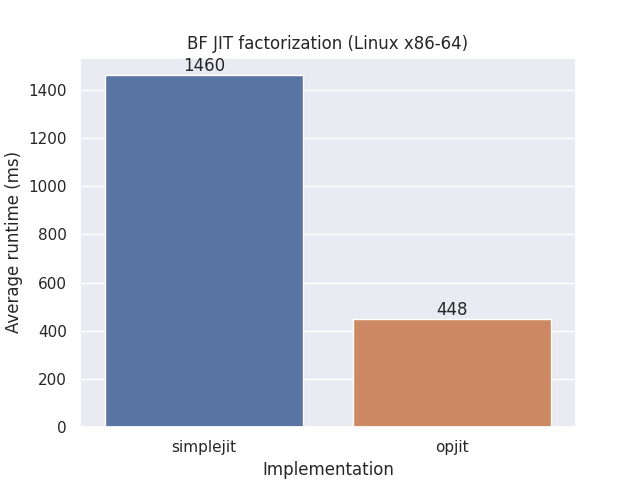
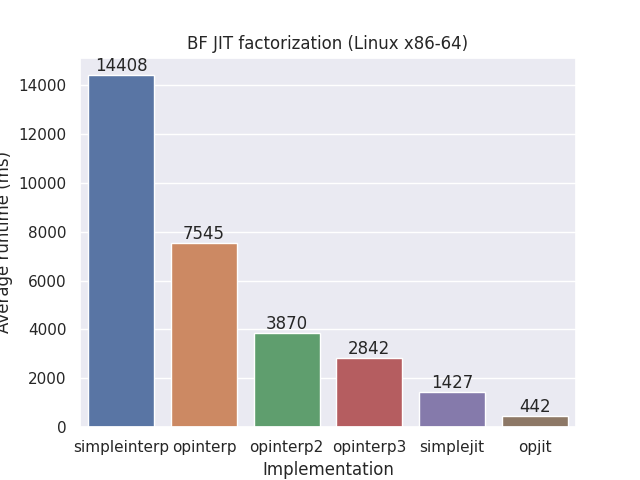
deploy: 33dc240f0592e6000128208d0645b407cf089039

Changed region(s): [[0.0, 0.125, 0.9062, 0.9688], [0.0312, 0.75, 0.0938, 0.8125]]

diff --git a/settings.html b/settings.html
@@ -1,1 +1,1 @@
-<!DOCTYPE html><html lang="en"><head><meta charset="utf-8"><meta name="viewport" content="width=device-width, initial-scale=1.0"><meta name="generator" content="rustdoc"><meta name="description" content="Settings of Rustdoc"><meta name="keywords" content="rust, rustlang, rust-lang"><title>Rustdoc settings</title><link rel="preload" as="font" type="font/woff2" crossorigin href="./SourceSerif4-Regular.ttf.woff2"><link rel="preload" as="font" type="font/woff2" crossorigin href="./FiraSans-Regular.woff2"><link rel="preload" as="font" type="font/woff2" crossorigin href="./FiraSans-Medium.woff2"><link rel="preload" as="font" type="font/woff2" crossorigin href="./SourceCodePro-Regular.ttf.woff2"><link rel="preload" as="font" type="font/woff2" crossorigin href="./SourceSerif4-Bold.ttf.woff2"><link rel="preload" as="font" type="font/woff2" crossorigin href="./SourceCodePro-Semibold.ttf.woff2"><link rel="stylesheet" href="./normalize.css"><link rel="stylesheet" href="./rustdoc.css" id="mainThemeStyle"><link rel="stylesheet" href="./ayu.css" disabled><link rel="stylesheet" href="./dark.css" disabled><link rel="stylesheet" href="./light.css" id="themeStyle"><script id="default-settings" ></script><script src="./storage.js"></script><script defer src="./main.js"></script><noscript><link rel="stylesheet" href="./noscript.css"></noscript><link rel="alternate icon" type="image/png" href="./favicon-16x16.png"><link rel="alternate icon" type="image/png" href="./favicon-32x32.png"><link rel="icon" type="image/svg+xml" href="./favicon.svg"></head><body class="rustdoc mod"><!--[if lte IE 11]><div class="warning">This old browser is unsupported and will most likely display funky things.</div><![endif]--><nav class="mobile-topbar"><button class="sidebar-menu-toggle">&#9776;</button><a class="sidebar-logo" href="./simpleinterp/index.html"><div class="logo-container"><img class="rust-logo" src="./rust-logo.svg" alt="logo"></div></a><h2 class="location"></h2></nav><nav class="sidebar"><a class="sidebar-logo" href="./simpleinterp/index.html"><div class="logo-container"><img class="rust-logo" src="./rust-logo.svg" alt="logo"></div></a><h2 class="location">Settings</h2><div class="sidebar-elems"></div></nav><main><div class="width-limiter"><div class="sub-container"><a class="sub-logo-container" href="./simpleinterp/index.html"><img class="rust-logo" src="./rust-logo.svg" alt="logo"></a><nav class="sub"><form class="search-form"><div class="search-container"><span></span><input class="search-input" name="search" autocomplete="off" spellcheck="false" placeholder="Click or press ‘S’ to search, ‘?’ for more options…" type="search"><div id="help-button" title="help" tabindex="-1"><button type="button">?</button></div><div id="settings-menu" tabindex="-1"><a href="./settings.html" title="settings"><img width="22" height="22" alt="Change settings" src="./wheel.svg"></a></div></div></form></nav></div><section id="main-content" class="content"><div class="main-heading"><h1 class="fqn"><span class="in-band">Rustdoc settings</span></h1><span class="out-of-band"><a id="back" href="javascript:void(0)" onclick="history.back();">Back</a></span></div><noscript><section>You need to enable Javascript be able to update your settings.</section></noscript><link rel="stylesheet" type="text/css" href="settings.css"><script defer src="settings.js"></script></section></div></main><div id="rustdoc-vars" data-root-path="./" data-current-crate="simpleinterp" data-themes="ayu,dark,light" data-resource-suffix="" data-rustdoc-version="1.65.0 (897e37553 2022-11-02)" ></div></body></html>
+<!DOCTYPE html><html lang="en"><head><meta charset="utf-8"><meta name="viewport" content="width=device-width, initial-scale=1.0"><meta name="generator" content="rustdoc"><meta name="description" content="Settings of Rustdoc"><meta name="keywords" content="rust, rustlang, rust-lang"><title>Rustdoc settings</title><link rel="preload" as="font" type="font/woff2" crossorigin href="./SourceSerif4-Regular.ttf.woff2"><link rel="preload" as="font" type="font/woff2" crossorigin href="./FiraSans-Regular.woff2"><link rel="preload" as="font" type="font/woff2" crossorigin href="./FiraSans-Medium.woff2"><link rel="preload" as="font" type="font/woff2" crossorigin href="./SourceCodePro-Regular.ttf.woff2"><link rel="preload" as="font" type="font/woff2" crossorigin href="./SourceSerif4-Bold.ttf.woff2"><link rel="preload" as="font" type="font/woff2" crossorigin href="./SourceCodePro-Semibold.ttf.woff2"><link rel="stylesheet" href="./normalize.css"><link rel="stylesheet" href="./rustdoc.css" id="mainThemeStyle"><link rel="stylesheet" href="./ayu.css" disabled><link rel="stylesheet" href="./dark.css" disabled><link rel="stylesheet" href="./light.css" id="themeStyle"><script id="default-settings" ></script><script src="./storage.js"></script><script defer src="./main.js"></script><noscript><link rel="stylesheet" href="./noscript.css"></noscript><link rel="alternate icon" type="image/png" href="./favicon-16x16.png"><link rel="alternate icon" type="image/png" href="./favicon-32x32.png"><link rel="icon" type="image/svg+xml" href="./favicon.svg"></head><body class="rustdoc mod"><!--[if lte IE 11]><div class="warning">This old browser is unsupported and will most likely display funky things.</div><![endif]--><nav class="mobile-topbar"><button class="sidebar-menu-toggle">&#9776;</button><a class="sidebar-logo" href="./opinterp/index.html"><div class="logo-container"><img class="rust-logo" src="./rust-logo.svg" alt="logo"></div></a><h2 class="location"></h2></nav><nav class="sidebar"><a class="sidebar-logo" href="./opinterp/index.html"><div class="logo-container"><img class="rust-logo" src="./rust-logo.svg" alt="logo"></div></a><h2 class="location">Settings</h2><div class="sidebar-elems"></div></nav><main><div class="width-limiter"><div class="sub-container"><a class="sub-logo-container" href="./opinterp/index.html"><img class="rust-logo" src="./rust-logo.svg" alt="logo"></a><nav class="sub"><form class="search-form"><div class="search-container"><span></span><input class="search-input" name="search" autocomplete="off" spellcheck="false" placeholder="Click or press ‘S’ to search, ‘?’ for more options…" type="search"><div id="help-button" title="help" tabindex="-1"><button type="button">?</button></div><div id="settings-menu" tabindex="-1"><a href="./settings.html" title="settings"><img width="22" height="22" alt="Change settings" src="./wheel.svg"></a></div></div></form></nav></div><section id="main-content" class="content"><div class="main-heading"><h1 class="fqn"><span class="in-band">Rustdoc settings</span></h1><span class="out-of-band"><a id="back" href="javascript:void(0)" onclick="history.back();">Back</a></span></div><noscript><section>You need to enable Javascript be able to update your settings.</section></noscript><link rel="stylesheet" type="text/css" href="settings.css"><script defer src="settings.js"></script></section></div></main><div id="rustdoc-vars" data-root-path="./" data-current-crate="opinterp" data-themes="ayu,dark,light" data-resource-suffix="" data-rustdoc-version="1.65.0 (897e37553 2022-11-02)" ></div></body></html>

diff --git a/src/bench/lib.rs.html b/src/bench/lib.rs.html
@@ -276,11 +276,11 @@
     source_code: <span class="kw-2">&amp;</span>str,
 ) -&gt; <span class="prelude-ty">Result</span>&lt;(), BfError&gt; {
     <span class="kw">let </span>impl_infos = [
-        <span class="comment">// ImplInfo::new(&quot;simpleinterp&quot;, &amp;simpleinterp::run, source_code, input)?,
-        // ImplInfo::new(&quot;opinterp&quot;, &amp;opinterp::run, source_code, input)?,
-        // ImplInfo::new(&quot;opinterp2&quot;, &amp;opinterp2::run, source_code, input)?,
-        // ImplInfo::new(&quot;opinterp3&quot;, &amp;opinterp3::run, source_code, input)?,
-        </span>ImplInfo::new(<span class="string">&quot;simplejit&quot;</span>, <span class="kw-2">&amp;</span>simplejit::run, source_code, input)<span class="question-mark">?</span>,
+        ImplInfo::new(<span class="string">&quot;simpleinterp&quot;</span>, <span class="kw-2">&amp;</span>simpleinterp::run, source_code, input)<span class="question-mark">?</span>,
+        ImplInfo::new(<span class="string">&quot;opinterp&quot;</span>, <span class="kw-2">&amp;</span>opinterp::run, source_code, input)<span class="question-mark">?</span>,
+        ImplInfo::new(<span class="string">&quot;opinterp2&quot;</span>, <span class="kw-2">&amp;</span>opinterp2::run, source_code, input)<span class="question-mark">?</span>,
+        ImplInfo::new(<span class="string">&quot;opinterp3&quot;</span>, <span class="kw-2">&amp;</span>opinterp3::run, source_code, input)<span class="question-mark">?</span>,
+        ImplInfo::new(<span class="string">&quot;simplejit&quot;</span>, <span class="kw-2">&amp;</span>simplejit::run, source_code, input)<span class="question-mark">?</span>,
         ImplInfo::new(<span class="string">&quot;opjit&quot;</span>, <span class="kw-2">&amp;</span>opjit::run, source_code, input)<span class="question-mark">?</span>,
     ];
 
